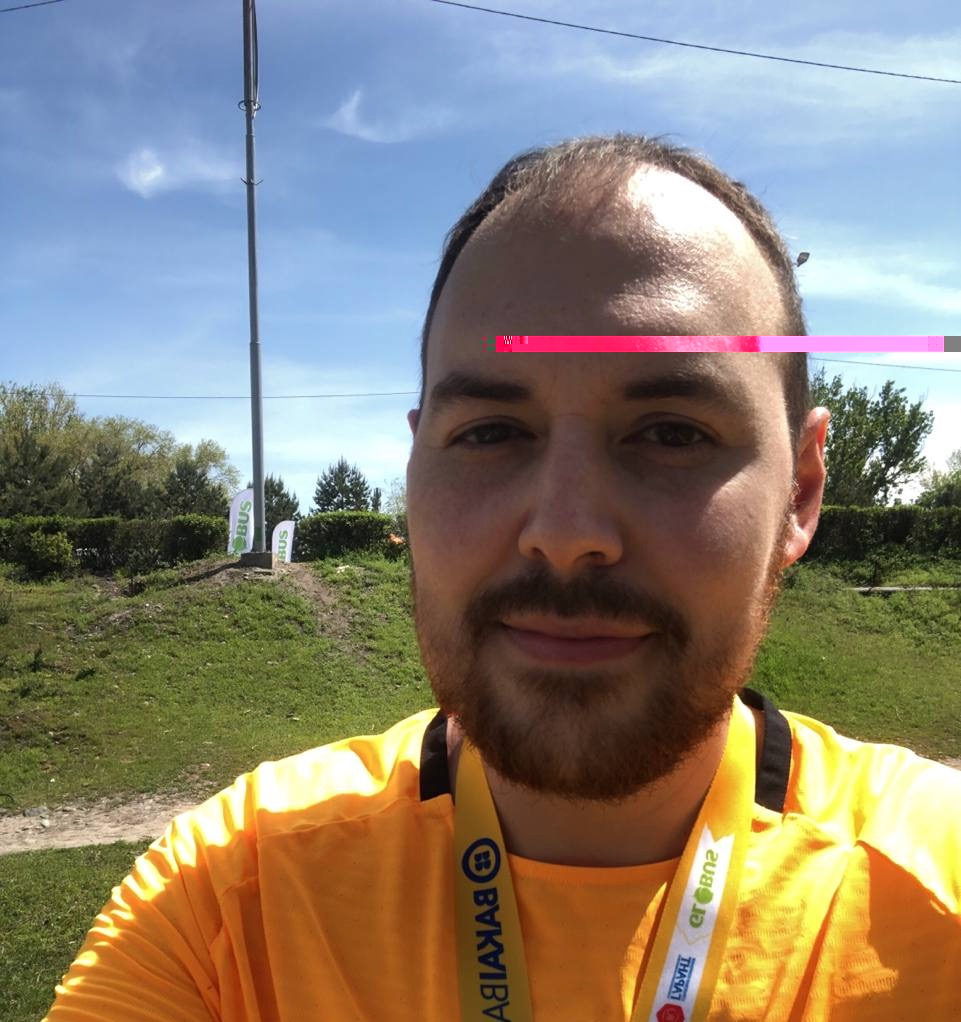
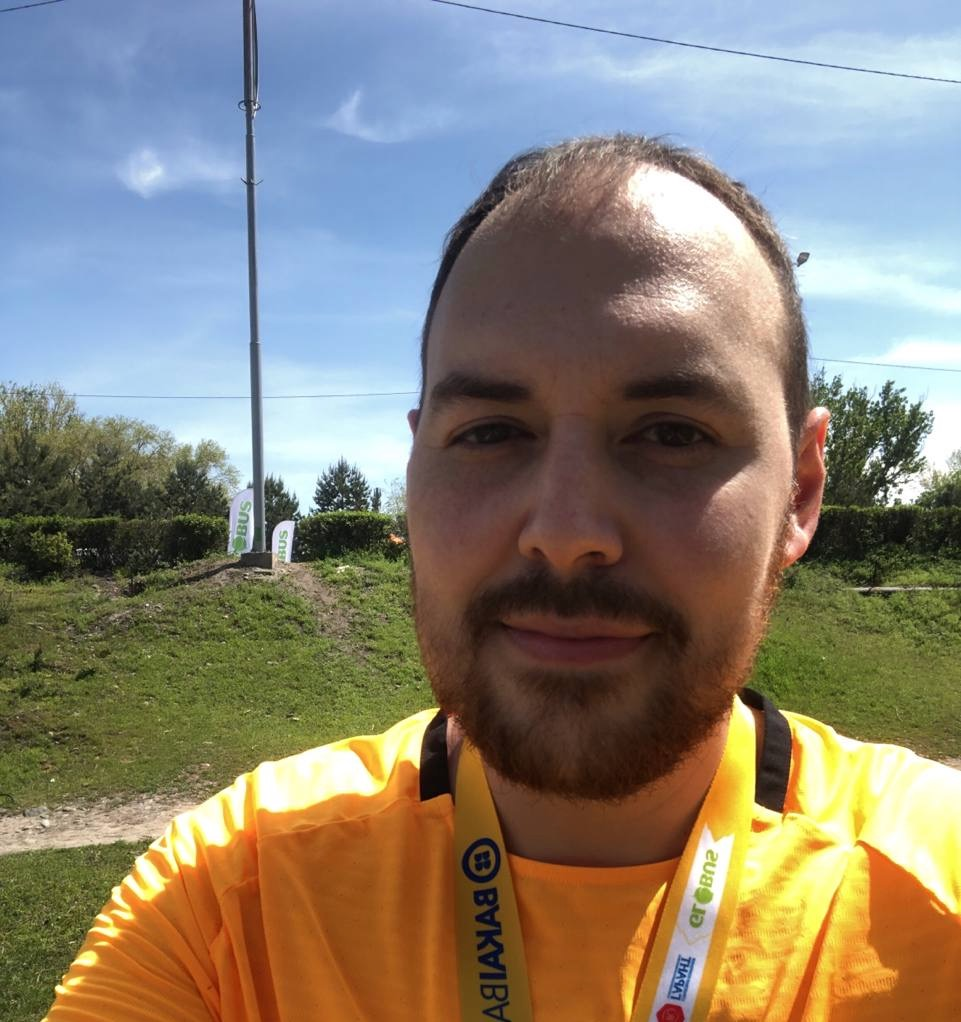
Feat/graphiql app 27 fix failed tests history links corrupting images (#55)
* fix: failed tests

* fix: corrupting images after push

* fix: links in the history page

* fix: translation link on the home page

* fix: placement of headings on sign-in and sign-up pages

* refactor: add en empty line in the end of .gitattributes

* fix: remove unnecessary translation

* fix: home page test

Changed region(s): [[0.4995, 0.3033, 1.0, 0.364]]

diff --git a/src/tests/pages/RestPage.test.tsx b/src/tests/pages/RestPage.test.tsx
@@ -1,9 +1,10 @@
 import { render, screen } from '@testing-library/react';
+import { notFound } from 'next/navigation';
 import type { ReactElement } from 'react';
 
 import Page from '@/app/[locale]/[method]/[[...slug]]/page';
 
-jest.mock('../../components/RestFullClient/RestFullClient.tsx', () => {
+jest.mock('@/components/RestFullClient/RestFullClient', () => {
   const RestClient = (props: { initParams?: undefined | { method: string } }): ReactElement => (
     <>
       <h1>RestFull client</h1>
@@ -13,16 +14,20 @@ jest.mock('../../components/RestFullClient/RestFullClient.tsx', () => {
   return RestClient;
 });
 
+jest.mock('next/navigation', () => ({
+  notFound: jest.fn(),
+}));
+
 describe('Rest page', () => {
   it('Should render page', () => {
-    render(<Page params={{ slug: ['GET'] }} searchParams={{ Test: 'test' }} />);
+    render(<Page params={{ method: 'GET' }} searchParams={{ Test: 'test' }} />);
 
     expect(screen.getByText('RestFull client')).toBeInTheDocument();
   });
 
-  it('Should render page without init params', () => {
-    render(<Page params={{}} searchParams={{}} />);
+  it('Should redirect to not found page if method is invalid', () => {
+    render(<Page params={{ method: 'INVALID' }} searchParams={{}} />);
 
-    expect(screen.getByText('emtpty init params')).toBeInTheDocument();
+    expect(notFound).toHaveBeenCalled();
   });
 });

diff --git a/src/tests/app/[locale]/page.test.tsx b/src/tests/app/[locale]/page.test.tsx
@@ -39,15 +39,14 @@ describe('Home', () => {
 
     const welcome = screen.getByText(/welcome back/i);
     const username = screen.getByText(new RegExp(user.displayName!));
-    const restfullLink = screen.getByRole('link', { name: /restfull/i });
+    const restfullLink = screen.getByRole('link', { name: /rest/i });
     const graphiqlLink = screen.getByRole('link', { name: /graphiql/i });
     const historyLink = screen.getByRole('link', { name: /history/i });
 
     expect(welcome).toBeInTheDocument();
     expect(username).toBeInTheDocument();
-    expect(restfullLink).toHaveAttribute('href', '/restfull-client');
-    expect(graphiqlLink).toHaveAttribute('href', '/graphiql-client');
+    expect(restfullLink).toHaveAttribute('href', '/GET');
+    expect(graphiqlLink).toHaveAttribute('href', '/GRAPHQL');
     expect(historyLink).toHaveAttribute('href', '/history');
   });
 });
-

diff --git a/src/components/HistoryView/HistoryView.tsx b/src/components/HistoryView/HistoryView.tsx
@@ -21,8 +21,8 @@ const HistoryView = (): ReactElement => {
       <div className="flex flex-col items-center gap-[30px] ">
         <h1>{t('NoRequests')}</h1>
         <div className="flex gap-[20px] text-lg">
-          <Link href={'/restfull-client'}>{t('RestClient')}</Link>
-          <Link href={'/graphiql-client'}>{t('GraphiQLClient')}</Link>
+          <Link href="/GET">{t('RestClient')}</Link>
+          <Link href="/GRAPHQL">{t('GraphiQLClient')}</Link>
         </div>
       </div>
     );

diff --git a/src/app/[locale]/sign-up/page.tsx b/src/app/[locale]/sign-up/page.tsx
@@ -46,7 +46,7 @@ const SignUp = (): ReactElement => {
   return (
     <div className="flex justify-center">
       <form onSubmit={handleSubmit(onSubmit)} className="w-80 p-4 flex flex-col" noValidate>
-        <h1 className="text-lg">{t('signUpForm.heading')}</h1>
+        <h1 className="m-4 text-lg text-center">{t('signUpForm.heading')}</h1>
         <Input
           className="h-24"
           label={t('signUpForm.username')}

diff --git a/src/app/[locale]/page.tsx b/src/app/[locale]/page.tsx
@@ -17,7 +17,7 @@ const Home = (): ReactElement => {
         <h1 className="text-4xl text-center">
           {user ? t('welcomeUsername', { username: user.displayName }) : t('welcome')}
         </h1>
-        <div className="flex gap-4 justify-center">
+        <div className="flex gap-5 justify-center">
           {user ? (
             <>
               <Link href="/GET">{t('buttons.restFullClient')}</Link>

diff --git a/src/app/[locale]/sign-in/page.tsx b/src/app/[locale]/sign-in/page.tsx
@@ -46,7 +46,7 @@ const SignIn = (): ReactElement => {
   return (
     <div className="flex justify-center">
       <form onSubmit={handleSubmit(onSubmit)} className="w-80 p-4 flex flex-col" noValidate>
-        <h1 className="text-lg">{t('signInForm.heading')}</h1>
+        <h1 className="m-4 text-lg text-center">{t('signInForm.heading')}</h1>
         <Input
           className="h-24"
           type="email"
